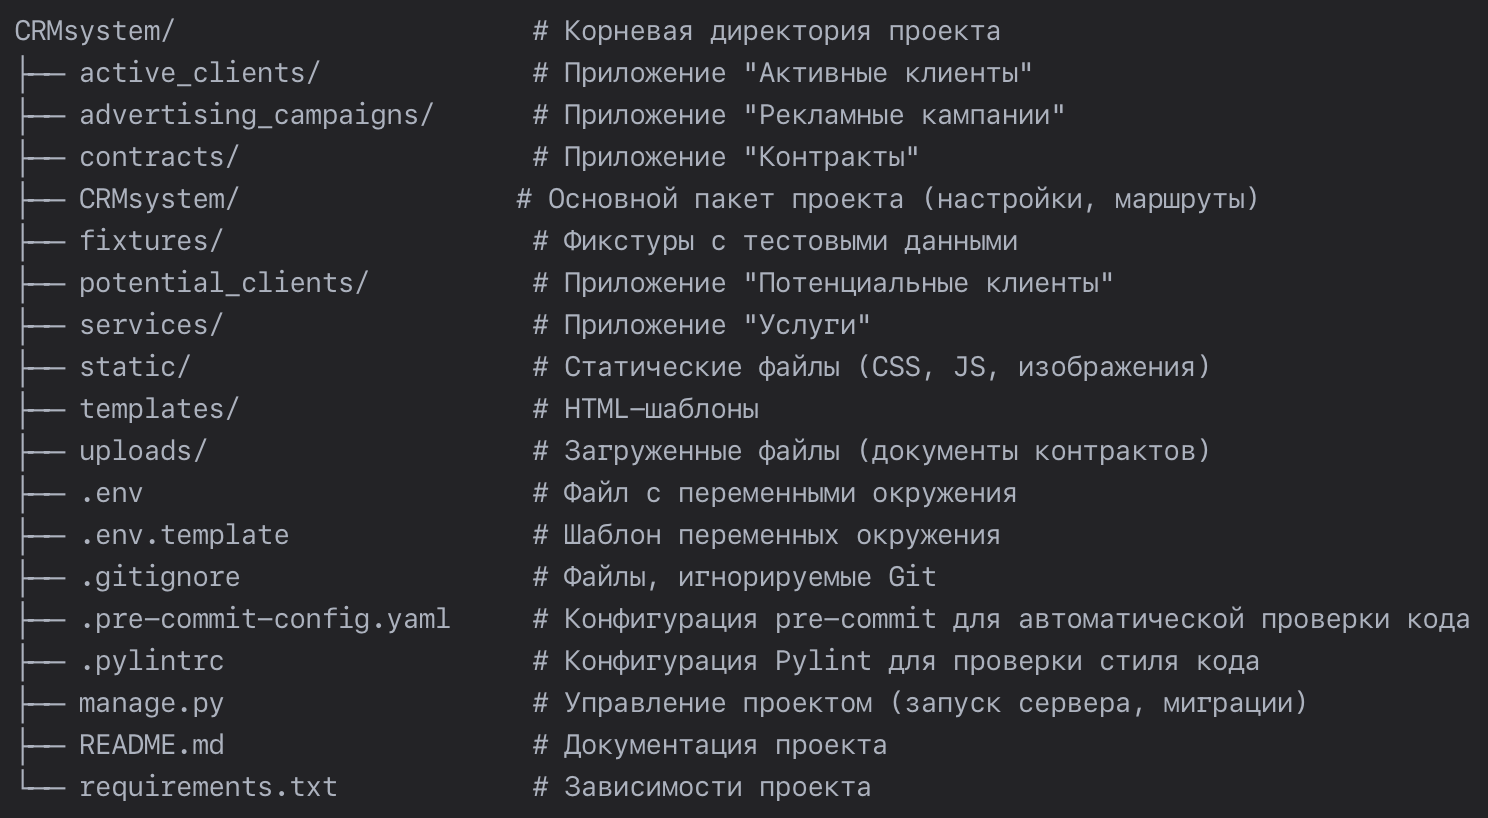
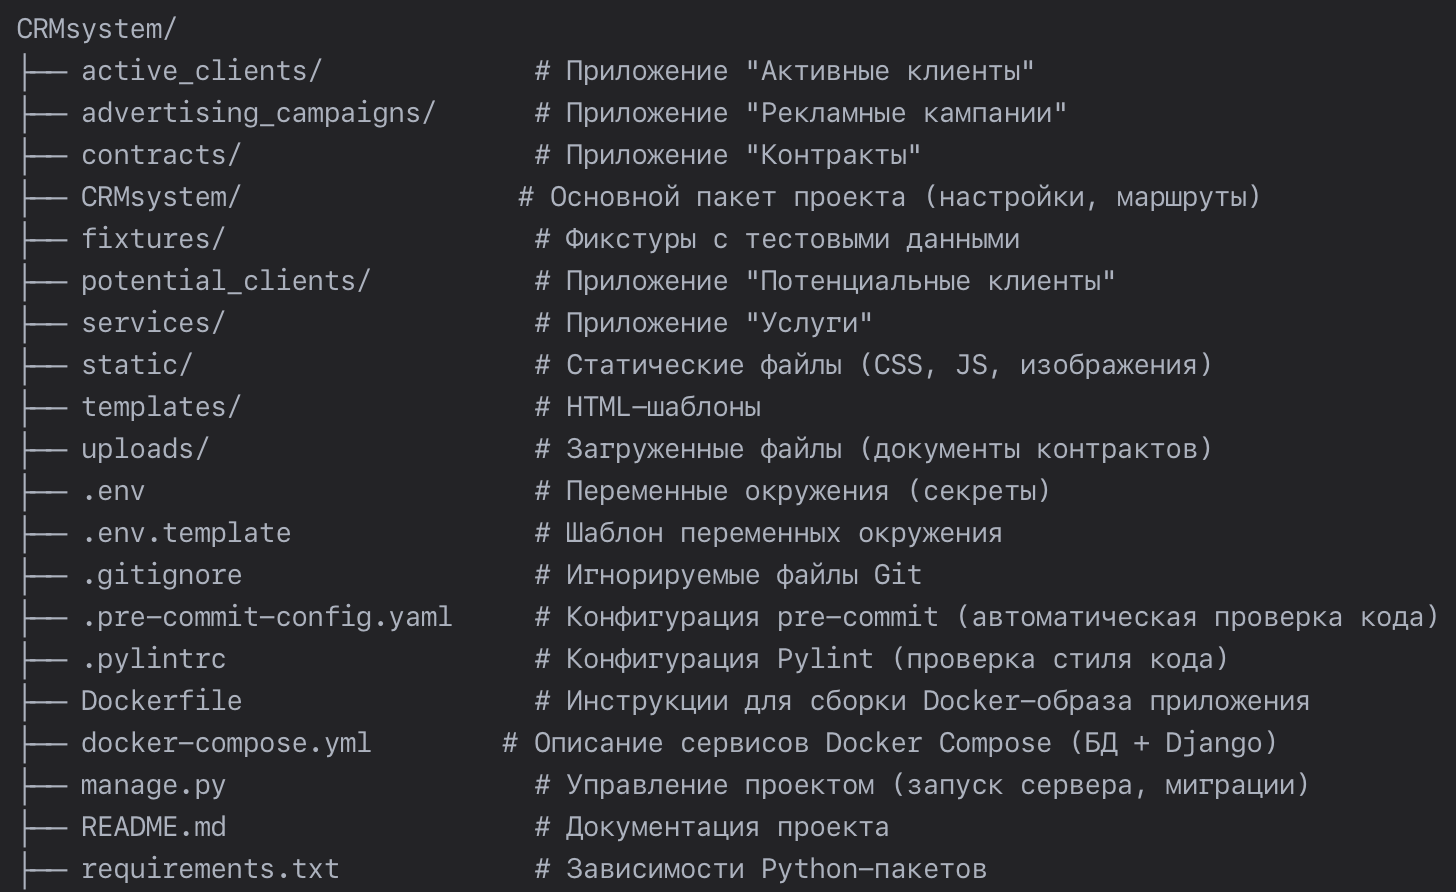
Add Docker Compose

Changed region(s): [[0.34, 0.0306, 0.989, 1.0], [0.0, 0.0, 0.3091, 1.0]]

diff --git a/templates/403.html b/templates/403.html
@@ -1,0 +1,15 @@
+{% load static %}
+
+<!DOCTYPE html>
+<html lang="en">
+<head>
+    <title>Доступ запрещён</title>
+    <link href="{% static 'css/style.css' %}" rel="stylesheet">
+</head>
+<body>
+    <h1>🚫 Доступ запрещён</h1>
+    <p>У вас нет прав для просмотра этой страницы</p>
+    <a href="/">На главную</a>
+    <a href="javascript:history.back()">Назад</a>
+</body>
+</html>

diff --git a/templates/404.html b/templates/404.html
@@ -1,0 +1,15 @@
+{% load static %}
+
+<!DOCTYPE html>
+<html lang="en">
+<head>
+    <title>Доступ запрещён</title>
+    <link href="{% static 'css/style.css' %}" rel="stylesheet">
+</head>
+<body>
+    <h1>🚫 Доступ запрещён</h1>
+    <p>У вас нет прав для просмотра этой страницы</p>
+    <a href="/">На главную</a>
+    <a href="javascript:history.back()">Назад</a>
+</body>
+</html>

diff --git a/CRMsystem/management/commands/create_user_groups_permissions.py b/CRMsystem/management/commands/create_user_groups_permissions.py
@@ -3,46 +3,53 @@ from django.core.management import BaseCommand
 
 
 class Command(BaseCommand):
+    """Автоматически создаёт группы пользователей с правами после миграций"""
+
     def handle(self, *args, **options):
-        """Автоматически создаёт группы пользователей с правами после миграций"""
         # Группа: Оператор (operator)
         operator_group, _ = Group.objects.get_or_create(name='operator')
-        operator_permission = Permission.objects.get(codename__in=[
-            'add_potentialclient',
-            'change_potentialclient',
-            'view_potentialclient',
-            'delete_potentialclient'
-        ])
-        operator_group.permissions.add(operator_permission)
-        operator_group.save()
+        operator_permission = Permission.objects.filter(
+            content_type__app_label='potential_clients',
+            codename__in=[
+                'add_potentialclient',
+                'change_potentialclient',
+                'view_potentialclient',
+                'delete_potentialclient',
+            ]
+        )
+        operator_group.permissions.set(operator_permission)
 
         # Группа: Маркетолог (marketer)
         marketer_group, _ = Group.objects.get_or_create(name='marketer')
-        marketer_permissions = Permission.objects.get(codename__in=[
-            'add_service',
-            'change_service',
-            'view_service',
-            'delete_service',
-            'add_advertisingcampaign',
-            'change_advertisingcampaign',
-            'view_advertisingcampaign',
-            'delete_advertisingcampaign',
-        ])
-        marketer_group.permissions.add(marketer_permissions)
-        marketer_group.save()
+        marketer_permissions = Permission.objects.filter(
+            content_type__app_label__in=['services', 'advertising_campaigns'],
+            codename__in=[
+                'add_service',
+                'change_service',
+                'view_service',
+                'delete_service',
+                'add_advertisingcampaign',
+                'change_advertisingcampaign',
+                'view_advertisingcampaign',
+                'delete_advertisingcampaign',
+            ]
+        )
+        marketer_group.permissions.set(marketer_permissions)
 
         # Группа: Менеджер (manager)
         manager_group, _ = Group.objects.get_or_create(name='manager')
-        manager_permissions = Permission.objects.get(codename__in=[
-            'add_contract',
-            'change_contract',
-            'view_contract',
-            'delete_contract',
-            'view_potentialclient',
-            'add_activeclient',
-            'change_activeclient',
-            'view_activeclient',
-            'delete_activeclient',
-        ])
-        manager_group.permissions.add(manager_permissions)
-        marketer_group.save()
+        manager_permissions = Permission.objects.filter(
+            content_type__app_label__in=['contracts', 'active_clients', 'potential_clients'],
+            codename__in=[
+                'add_contract',
+                'change_contract',
+                'view_contract',
+                'delete_contract',
+                'view_potentialclient',
+                'add_activeclient',
+                'change_activeclient',
+                'view_activeclient',
+                'delete_activeclient',
+            ]
+        )
+        manager_group.permissions.set(manager_permissions)

diff --git a/CRMsystem/settings.py b/CRMsystem/settings.py
@@ -23,12 +23,12 @@ BASE_DIR = Path(__file__).resolve().parent.parent
 # See https://docs.djangoproject.com/en/4.2/howto/deployment/checklist/
 
 # SECURITY WARNING: keep the secret key used in production secret!
-SECRET_KEY = 'django-insecure-25o4d4ri#n2k0&egefsjsw77ef!31_$4vcu3sl_n*hmu^ptgf5'
+SECRET_KEY = os.getenv('SECRET_KEY', 'django-insecure-dev-key')
 
 # SECURITY WARNING: don't run with debug turned on in production!
-DEBUG = True
+DEBUG = os.getenv('DEBUG', '1') == '1'
 
-ALLOWED_HOSTS = []
+ALLOWED_HOSTS = os.getenv('ALLOWED_HOSTS', 'localhost,127.0.0.1').split(',')
 
 
 # Application definition
@@ -41,6 +41,7 @@ INSTALLED_APPS = [
     'django.contrib.messages',
     'django.contrib.staticfiles',
 
+    'CRMsystem',                         # Основное приложение
     'services',                          # Приложение для работы с услугами
     'advertising_campaigns',             # Приложение для работы с рекламными кампаниями
     'potential_clients',                 # Приложение для работы с потенциальными клиентами
@@ -88,11 +89,11 @@ load_dotenv()
 DATABASES = {
     'default': {
         'ENGINE': 'django.db.backends.postgresql',
-        'NAME': os.getenv('DB_NAME'),
-        'USER': os.getenv('DB_USER'),
-        'PASSWORD': os.getenv('DB_PASSWORD'),
-        'HOST': 'localhost',
-        'PORT': '5433',
+        'NAME': os.getenv('DB_NAME', 'crm_db'),
+        'USER': os.getenv('DB_USER', 'crm_user'),
+        'PASSWORD': os.getenv('DB_PASSWORD', 'admin'),
+        'HOST': os.getenv('DB_HOST', 'localhost'),
+        'PORT': os.getenv('DB_PORT', '5432'),
     }
 }
 
@@ -132,14 +133,12 @@ USE_TZ = True
 # https://docs.djangoproject.com/en/4.2/howto/static-files/
 
 STATIC_URL = '/static/'
-STATICFILES_DIRS = [
-    BASE_DIR / 'static',                # Директория /static/ в корне проекта
-]
-STATIC_ROOT = BASE_DIR / 'staticfiles'  # Для production
+STATIC_ROOT = os.path.join(BASE_DIR, 'staticfiles')
+STATICFILES_DIRS = [os.path.join(BASE_DIR, 'static')]
 
-# Путь для загруженных файлов
+# Media files (Uploaded files)
 MEDIA_URL = '/media/'
-MEDIA_ROOT = BASE_DIR / 'uploads'
+MEDIA_ROOT = os.path.join(BASE_DIR, 'uploads')
 
 LOGIN_REDIRECT_URL = '/'         # Куда перенаправить после входа
 LOGOUT_REDIRECT_URL = 'login/'  # Куда перенаправить после выхода

diff --git a/CRMsystem/management/commands/create_superuser.py b/CRMsystem/management/commands/create_superuser.py
@@ -1,0 +1,21 @@
+from django.core.management.base import BaseCommand
+from django.contrib.auth.models import User
+
+
+class Command(BaseCommand):
+    """Создаёт суперпользователя"""
+
+    def handle(self, *args, **options):
+        if not User.objects.filter(username='admin').exists():
+            User.objects.create_superuser(
+                    username='admin',
+                    email='admin@example.com',
+                    password='admin'
+            )
+            self.stdout.write(
+                    self.style.SUCCESS(f'✅ Суперпользователь успешно создан!')
+                )
+        else:
+            self.stdout.write(
+                self.style.WARNING(f'⚠ Суперпользователь уже существует')
+            )

diff --git a/README.md b/README.md
@@ -16,6 +16,7 @@
 - **Инструменты разработки**
     - Pylint + pylint-django (статический анализ кода)
     - pre-commit (автоматическая проверка кода перед коммитом)
+    - Docker + Docker Compose (контейнеризация)
 
 ## 📋 Основной функционал приложения:
 - Авторизация пользователя; 
@@ -42,65 +43,24 @@
     git clone git@github.com:skurkova/CRMsystem.git
     cd CRMsystеm
 
-2. Создать и активировать виртуальное окружение:
-    python3 -m venv venv
-    source venv/bin/activate
-
-3. Установить зависимости:
-    pip install -r requirements.txt
-
-4. Настроить переменные окружения:
+2. Настроить переменные окружения:
     - переименовать файл .env.template → .env:
         cp .env.template .env
-    - отредактировать файл.env:
+    - отредактировать файл.env, добавив необходимые значения:
         nano .env
-        DB_NAME=<имя базы данных>
-        DB_USER=<имя пользователя>
-        DB_PASSWORD=<пароль>
-
-5. Настроить базу данных PostgreSQL:
-    - Установить PostgreSQL (если не установлен):
-        brew install postgresql
-        brew services start postgresql
     
-    - Создать пользователя и базу данных:
-        psql postgres 
-        CREATE USER <имя пользователя> WITH PASSWORD '<пароль>' CREATEDB;
-        CREATE DATABASE <имя базы данных> OWNER <имя пользователя>;
-   
-    - Настроить CRMsystеm/settings.py:
-        from dotenv import load_dotenv
-        import os
-        load_dotenv()
-        DATABASES = {
-            'default': {
-                'ENGINE': 'django.db.backends.postgresql',
-                'NAME': os.getenv('DB_NAME'),
-                'USER': os.getenv('DB_USER'),
-                'PASSWORD': os.getenv('DB_PASSWORD'),
-                'HOST': 'localhost',
-                'PORT': '5433',
-            }
-        }
+3. Запустить приложение с помощью Docker Compose:
+    docker-compose up -d --build
 
-6. Применить миграции:
-    python manage.py migrate
+4. Загрузить фикстуры (при необходимости) в правильном порядке:
+    docker-compose exec django python manage.py loaddata fixtures/services.json
+    docker-compose exec django python manage.py loaddata fixtures/advertising_campaigns.json
+    docker-compose exec django python manage.py loaddata fixtures/potential_clients.json
+    docker-compose exec django python manage.py loaddata fixtures/contracts.json
+    docker-compose exec django python manage.py loaddata fixtures/active_clients.json
+    docker-compose exec django python manage.py loaddata fixtures/users.json
 
-7. Запустить сервер:
-    python manage.py runserver
-
-8. Создать роли пользователей:
-    python manage.py create_user_groups_permissions
-
-9. Загрузить фикстуры в правильном порядке:
-    python manage.py loaddata fixtures/services.json
-    python manage.py loaddata fixtures/advertising_campaigns.json
-    python manage.py loaddata fixtures/potential_clients.json
-    python manage.py loaddata fixtures/contracts.json
-    python manage.py loaddata fixtures/active_clients.json
-    python manage.py loaddata fixtures/users.json
-
-10. Открыть в браузере:
+5. Открыть в браузере:
     - Основной интерфейс: http://127.0.0.1:8000/
     - Админка Django: http://127.0.0.1:8000/admin/
 ````
@@ -114,4 +74,4 @@ pylint --load-plugins pylint_django --django-settings-module=CRMsystеm.settings
 ````
 pre-commit install
 ````
-После установки **pre-commit** проверка запускается автоматически при каждом коммите
+*После установки **pre-commit** проверка запускается автоматически при каждом коммите
